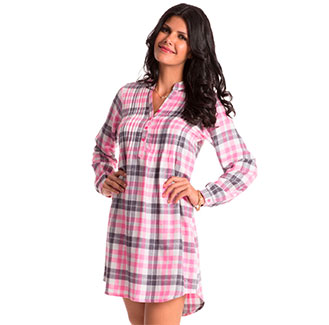
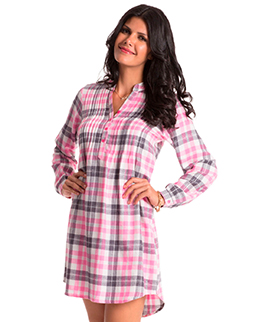
responsive images

Changed region(s): [[0.1922, 0.0, 0.851, 1.0]]

diff --git a/index.html b/index.html
@@ -167,6 +167,7 @@
                 <div class="item-newCollection__overlay overlay">
                   <img
                     src="./images/new-collection/background-1.jpg"
+                    srcset="./images/new-collection/background-1@2x.jpg 510w"
                     alt="blue"
                     class="item-newCollection__image"
                   />
@@ -203,6 +204,7 @@
                 <div class="item-newCollection__overlay overlay">
                   <img
                     src="./images/new-collection/background-2.jpg"
+                    srcset="./images/new-collection/background-2@2x.jpg 510w"
                     alt="woman"
                     class="item-newCollection__image"
                   />
@@ -239,6 +241,7 @@
                 <div class="item-newCollection__overlay overlay">
                   <img
                     src="./images/new-collection/background-3.jpg"
+                    srcset="./images/new-collection/background-3@2x.jpg 510w"
                     alt="yellow"
                     class="item-newCollection__image"
                   />
@@ -275,6 +278,7 @@
                 <div class="item-newCollection__overlay overlay">
                   <img
                     src="./images/new-collection/background-4.jpg"
+                    srcset="./images/new-collection/background-4@2x.jpg 510w"
                     alt="cool"
                     class="item-newCollection__image"
                   />
@@ -322,6 +326,7 @@
                 <div class="item-featured__overlay overlay">
                   <img
                     src="./images/gallery/product1.png"
+                    srcset="./images/gallery/product1@2x.png 510w"
                     alt="product1"
                     class="item-featured__image"
                   />
@@ -358,6 +363,7 @@
                 <div class="item-featured__overlay overlay">
                   <img
                     src="./images/gallery/product2.png"
+                    srcset="./images/gallery/product2@2x.png 510w"
                     alt="product2"
                     class="item-featured__image"
                   />
@@ -394,6 +400,7 @@
                 <div class="item-featured__overlay overlay">
                   <img
                     src="./images/gallery/product3.png"
+                    srcset="./images/gallery/product3@2x.png 510w"
                     alt="product3"
                     class="item-featured__image"
                   />
@@ -430,6 +437,7 @@
                 <div class="item-featured__overlay overlay">
                   <img
                     src="./images/gallery/product4.png"
+                    srcset="./images/gallery/product4@2x.png 510w"
                     alt="product4"
                     class="item-featured__image"
                   />
@@ -466,6 +474,7 @@
                 <div class="item-featured__overlay overlay">
                   <img
                     src="./images/gallery/product5.png"
+                    srcset="./images/gallery/product5@2x.png 510w"
                     alt="product5"
                     class="item-featured__image"
                   />
@@ -502,6 +511,7 @@
                 <div class="item-featured__overlay overlay">
                   <img
                     src="./images/gallery/product6.png"
+                    srcset="./images/gallery/product6@2x.png 510w"
                     alt="product6"
                     class="item-featured__image"
                   />
@@ -538,6 +548,7 @@
                 <div class="item-featured__overlay overlay">
                   <img
                     src="./images/gallery/product7.png"
+                    srcset="./images/gallery/product7@2x.png 510w"
                     alt="product7"
                     class="item-featured__image"
                   />
@@ -574,6 +585,7 @@
                 <div class="item-featured__overlay overlay">
                   <img
                     src="./images/gallery/product8.png"
+                    srcset="./images/gallery/product8@2x.png 510w"
                     alt="product8"
                     class="item-featured__image"
                   />
@@ -619,7 +631,8 @@
             <ul class="blog__list lists">
               <li class="blog__item item-blog">
                 <img
-                  src="./images/blog/ipad-632394_960_720.jpg"
+                  src="./images/blog/ipad.jpg"
+                  srcset="./images/blog/ipad@2x.jpg 700w"
                   alt="ipad"
                   class="item-blog__img"
                   width="350"
@@ -640,6 +653,7 @@
               <li class="blog__item item-blog">
                 <img
                   src="./images/blog/slide1.jpg"
+                  srcset="./images/blog/slide1@2x.jpg 700w"
                   alt="slide"
                   class="item-blog__img"
                   width="350"
@@ -659,7 +673,8 @@
               </li>
               <li class="blog__item item-blog">
                 <img
-                  src="./images/blog/product-img-5.jpg"
+                  src="./images/blog/product-img.jpg"
+                  srcset="./images/blog/product-img@2x.jpg 700w"
                   alt="product"
                   class="item-blog__img"
                   width="350"

diff --git a/css/styles.css b/css/styles.css
@@ -343,13 +343,28 @@ p {
 /*baner section*/
 .banner {
   display: flex;
-  height: 600px;
+  min-height: calc(100vh - 140px);
   background-image: linear-gradient(
       rgba(24, 24, 25, 0.52),
       rgba(24, 24, 25, 0.52)
     ),
     url('../images/banner/slide4.jpg');
   align-items: center;
+  background-size: cover;
+}
+
+@media screen and (min-width: 1700px) {
+  .banner {
+    display: flex;
+    min-height: calc(100vh - 140px);
+    background-image: linear-gradient(
+        rgba(24, 24, 25, 0.52),
+        rgba(24, 24, 25, 0.52)
+      ),
+      url('../images/banner/slide4@2x.jpg');
+    align-items: center;
+    background-size: cover;
+  }
 }
 
 .banner__content {
